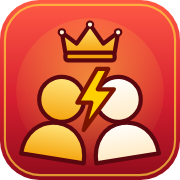
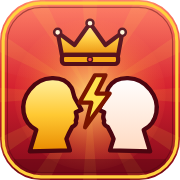
ראש בראש v10: לוגו מעודכן, שני ראשים פנים מול פנים עם קרני שמש
Claude-Session: https://claude.ai/code/session_01Ky2wWHTdg9mKnQRFYe2AyT

diff --git a/public/rosh-brosh/README.md b/public/rosh-brosh/README.md
@@ -40,4 +40,4 @@
 - בדיקת אונליין בלי אינטרנט: לפתוח שתי לשוניות עם `?net=bc` ולחצות "שחק כעת" בשתיהן.
 
 ## לוגו
-`icon.svg` הוא הלוגו (שני ראשים, ברק וכתר). ממנו נוצרו `icon-192.png`, `icon-512.png` (לחנות Google Play) ו-`apple-touch-icon.png`. `manifest.webmanifest` מאפשר להוסיף את המשחק למסך הבית בטלפון.
+`icon.svg` הוא הלוגו (שני ראשים פנים מול פנים, ברק וכתר). ממנו נוצרו `icon-192.png`, `icon-512.png` (לחנות Google Play) ו-`apple-touch-icon.png`. `manifest.webmanifest` מאפשר להוסיף את המשחק למסך הבית בטלפון.
